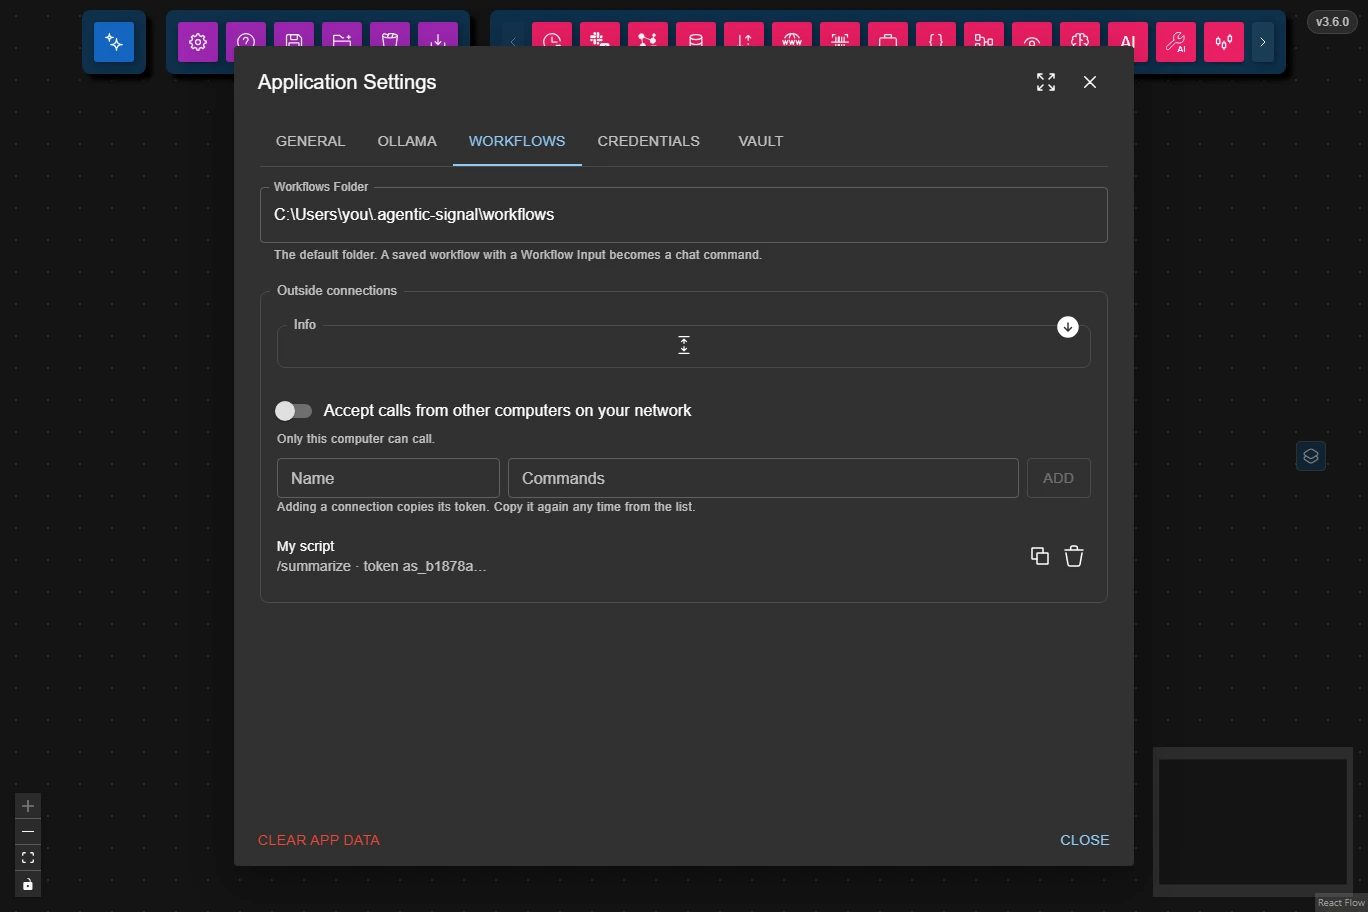
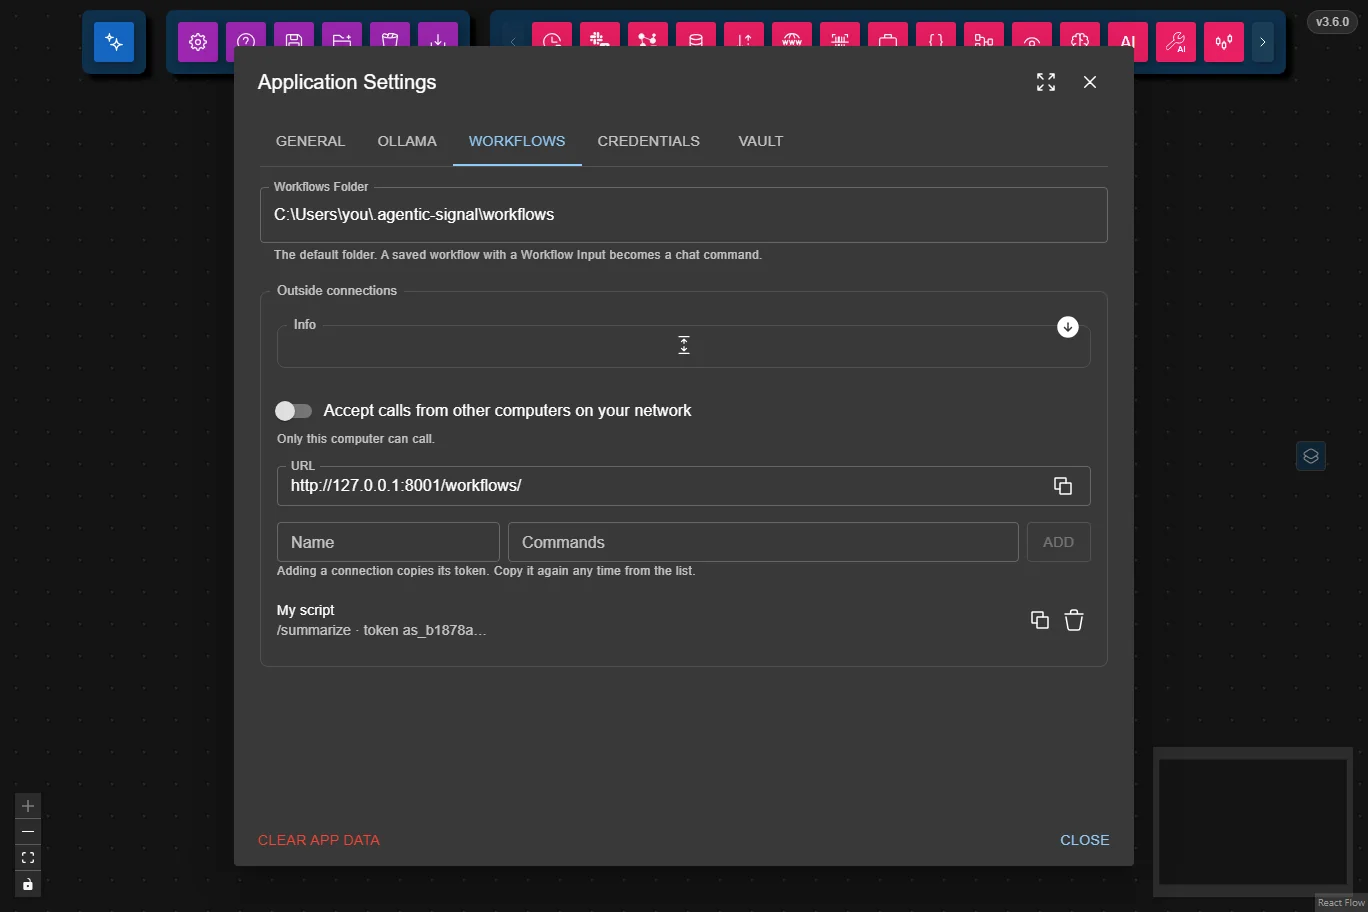
Settings → Workflows: the URL outside apps call, in a read-only field with a copy button, and with the network switch on, one more for each of this computer's network addresses (the switch's caption no longer lists them); the switch's state moved into a hook the switch and the fields share; the docs

Changed region(s): [[0.1842, 0.4912, 0.5219, 0.7061], [0.7368, 0.5833, 0.7982, 0.614], [0.7675, 0.5219, 0.7982, 0.5526]]

diff --git a/client/src/components/Dock/components/ActionsDock/components/Settings/components/OutsideConnections.tsx b/client/src/components/Dock/components/ActionsDock/components/Settings/components/OutsideConnections.tsx
@@ -15,10 +15,12 @@ import {Copy, Trash} from "iconoir-react";
 import {useSnackbar} from "notistack";
 import {FieldsetGroup} from "../../../../../../FieldsetGroup";
 import {useCommandConnections} from "../../../../../../../hooks/useCommandConnections";
+import {useCommandsNetworkAccess} from "../../../../../../../hooks/useCommandsNetworkAccess";
 import {CommandConnection} from "../../../../../../../services/commandConnections";
 import {fetchCommandsEndpoint} from "../../../../../../../services/outsideCommandsService";
 import {copyText} from "../../../../../../../utils/clipboard";
 import {AddConnectionForm} from "./AddConnectionForm";
+import {CommandsUrls} from "./CommandsUrls";
 import {NetworkAccessSwitch} from "./NetworkAccessSwitch";
 import {errorMessage} from "@shared/utils";
 
@@ -39,7 +41,10 @@ function describeConnection ({commands}: CommandConnection, token: string | unde
 export function OutsideConnections () {
     const {enqueueSnackbar} = useSnackbar();
     const {connections, tokens, getToken, addConnection, removeConnection} = useCommandConnections();
-    const [endpoint, setEndpoint] = useState(ENDPOINT_PLACEHOLDER);
+    const {access, saving, setEnabled} = useCommandsNetworkAccess();
+    // Null until the backend answers: the Info text shows the usual URL meanwhile, but only the real one is offered to copy.
+    const [endpoint, setEndpoint] = useState<string | null>(null);
+    const shownEndpoint = endpoint ?? ENDPOINT_PLACEHOLDER;
 
     useEffect(() => {
         fetchCommandsEndpoint().then((url) => {
@@ -77,25 +82,27 @@ export function OutsideConnections () {
                     Apps outside Agentic Signal call workflows open in your layers whose Workflow Input has Run on.
                     <ul style={{margin: "8px 0 0", paddingLeft: "20px"}}>
                         <li>
-                            Run one: <code>POST {endpoint}&lt;command&gt;</code> with a Data Source as JSON, the same content a Data Source node holds:
+                            Run one: <code>POST {shownEndpoint}&lt;command&gt;</code> with a Data Source as JSON, the same content a Data Source node holds:
                             {" "}<code>{"{\"type\": \"markdown-and-files\", \"value\": {\"text\", \"files\": [{\"name\", \"base64\", \"mimeType\", \"isToolsPayload\"}]}}"}</code>
                             {" "}or <code>{"{\"type\": \"json\", \"value\": …}"}</code>. The answer is <code>{"{\"result\": …}"}</code>.
                         </li>
                         <li>
                             Long runs, for callers that can't wait on one request (a browser extension): add the header <code>Prefer: respond-async</code>.
-                            {" "}It answers at once with <code>{"{\"job\": …}"}</code>; then <code>GET {endpoint}jobs/&lt;job&gt;</code> answers
+                            {" "}It answers at once with <code>{"{\"job\": …}"}</code>; then <code>GET {shownEndpoint}jobs/&lt;job&gt;</code> answers
                             {" "}<code>{"{\"status\": \"running\"}"}</code> until the run ends, then what the one call would have.
-                            {" "}<code>DELETE {endpoint}jobs/&lt;job&gt;</code> cancels it; a job left unchecked for 2 minutes is cancelled.
+                            {" "}<code>DELETE {shownEndpoint}jobs/&lt;job&gt;</code> cancels it; a job left unchecked for 2 minutes is cancelled.
                         </li>
                         <li>
-                            List them: <code>GET {endpoint}</code> answers <code>{"{\"commands\": [{\"command\", \"description\"}]}"}</code>,
+                            List them: <code>GET {shownEndpoint}</code> answers <code>{"{\"commands\": [{\"command\", \"description\"}]}"}</code>,
                             the ones the token may call that a layer listens for now.
                         </li>
                         <li>Both need the header <code>Authorization: Bearer &lt;token&gt;</code>.</li>
                     </ul>
                 </Typography>
             </FieldsetGroup>
-            <NetworkAccessSwitch />
+            {/* Until the backend answers (or if it can't), there's nothing to switch, nor a URL to copy. */}
+            {access && <NetworkAccessSwitch access={access} saving={saving} onChange={setEnabled} />}
+            {endpoint && <CommandsUrls endpoint={endpoint} access={access} />}
             <AddConnectionForm onAdd={handleAdd} />
             <Typography variant="caption" color="text.secondary">
                 Adding a connection copies its token. Copy it again any time from the list.

diff --git a/client/src/components/Dock/components/ActionsDock/components/Settings/components/NetworkAccessSwitch.tsx b/client/src/components/Dock/components/ActionsDock/components/Settings/components/NetworkAccessSwitch.tsx
@@ -4,63 +4,35 @@
  *    See the LICENSE file in the project root for license details.     *
  ************************************************************************/
 
-import {useEffect, useState} from "react";
 import Box from "@mui/material/Box";
 import FormControlLabel from "@mui/material/FormControlLabel";
 import Switch from "@mui/material/Switch";
 import Typography from "@mui/material/Typography";
-import {useSnackbar} from "notistack";
-import {CommandsNetworkAccess, fetchCommandsNetworkAccess, setCommandsNetworkAccess} from "../../../../../../../services/outsideCommandsService";
-import {errorMessage} from "@shared/utils";
+import {CommandsNetworkAccess} from "../../../../../../../services/outsideCommandsService";
 
 
-/** The line under the switch: who can call, and on which address. */
-function describeAccess ({enabled, lockedBy, port, addresses}: CommandsNetworkAccess): string {
+/** The line under the switch: who can call. The URLs to call are in the fields below it. */
+function describeAccess ({enabled, lockedBy}: CommandsNetworkAccess): string {
     const lock = lockedBy ? ` ${lockedBy} decides this: the backend was started with it.` : "";
 
     if (!enabled) return `Only this computer can call.${lock}`;
 
-    const where = addresses.map(address => `http://${address}:${port}/workflows/<command>`).join(" or ");
-
-    return `${where ? `Other computers on your network call ${where}.` : "Other computers on your network can call."} `
-        + `Calls travel as plain HTTP, so keep this for networks you trust.${lock}`;
+    return `Other computers on your network can call too. Calls travel as plain HTTP, so keep this for networks you trust.${lock}`;
 }
 
+type NetworkAccessSwitchProps = {
+    access: CommandsNetworkAccess;
+    /** While the backend reopens the port, the switch waits. */
+    saving: boolean;
+    onChange: (enabled: boolean) => void;
+};
+
 /** Whether apps on other computers may call workflow commands: opens the commands port to the network. */
-export function NetworkAccessSwitch () {
-    const {enqueueSnackbar} = useSnackbar();
-    const [access, setAccess] = useState<CommandsNetworkAccess | null>(null);
-    const [saving, setSaving] = useState(false);
-
-    useEffect(() => {
-        let cancelled = false;
-
-        fetchCommandsNetworkAccess()
-            .then((answer) => {
-                if (!cancelled) setAccess(answer);
-            })
-            .catch(() => {});
-
-        return () => {
-            cancelled = true;
-        };
-    }, []);
-
-    // Until the backend answers (or if it can't), there's nothing to switch.
-    if (!access) return null;
-
-    const handleChange = (enabled: boolean) => {
-        setSaving(true);
-        void setCommandsNetworkAccess(enabled)
-            .then(setAccess)
-            .catch((error: unknown) => enqueueSnackbar(`Couldn't change it: ${errorMessage(error)}`, {variant: "error"}))
-            .finally(() => setSaving(false));
-    };
-
+export function NetworkAccessSwitch ({access, saving, onChange}: NetworkAccessSwitchProps) {
     return (
         <Box sx={{my: 1}}>
             <FormControlLabel
-                control={<Switch checked={access.enabled} disabled={saving || access.lockedBy !== null} onChange={(_event, checked) => handleChange(checked)} />}
+                control={<Switch checked={access.enabled} disabled={saving || access.lockedBy !== null} onChange={(_event, checked) => onChange(checked)} />}
                 label="Accept calls from other computers on your network"
             />
             <Typography variant="caption" color="text.secondary" component="p">{describeAccess(access)}</Typography>

diff --git a/client/src/components/Dock/components/ActionsDock/components/Settings/components/CommandsUrls.tsx b/client/src/components/Dock/components/ActionsDock/components/Settings/components/CommandsUrls.tsx
@@ -1,0 +1,86 @@
+/************************************************************************
+ *    Copyright (C) 2026 Code Forge Temple                              *
+ *    This file is part of agentic-signal project                       *
+ *    See the LICENSE file in the project root for license details.     *
+ ************************************************************************/
+
+import Box from "@mui/material/Box";
+import IconButton from "@mui/material/IconButton";
+import InputAdornment from "@mui/material/InputAdornment";
+import TextField from "@mui/material/TextField";
+import Tooltip from "@mui/material/Tooltip";
+import {Copy} from "iconoir-react";
+import {useSnackbar} from "notistack";
+import {CommandsNetworkAccess} from "../../../../../../../services/outsideCommandsService";
+import {copyText} from "../../../../../../../utils/clipboard";
+
+
+type CommandsUrl = {label: string; url: string};
+
+/**
+ * The URLs outside apps call: this computer's, and while the port is open to the network, one per address other
+ * computers reach this one on (an address the backend was started with is this computer's URL already).
+ */
+function commandsUrls (endpoint: string, access: CommandsNetworkAccess | null): CommandsUrl[] {
+    if (!access?.enabled) return [{label: "URL", url: endpoint}];
+
+    const networkUrls = access.addresses
+        .map(address => `http://${address}:${access.port}/workflows/`)
+        .filter(url => url !== endpoint);
+
+    return [
+        {label: "URL for this computer", url: endpoint},
+        ...networkUrls.map(url => ({label: "URL for other computers", url})),
+    ];
+}
+
+/* A read-only field with the URL, so it can be read and selected too, and a button that copies it. */
+function CopyableUrl ({label, url}: CommandsUrl) {
+    const {enqueueSnackbar} = useSnackbar();
+
+    const handleCopy = () => {
+        copyText(url)
+            .then(() => enqueueSnackbar("URL copied.", {variant: "success"}))
+            .catch(() => enqueueSnackbar("Couldn't copy the URL.", {variant: "error"}));
+    };
+
+    return (
+        <TextField
+            size="small"
+            fullWidth
+            label={label}
+            value={url}
+            slotProps={{
+                htmlInput: {title: url},
+                input: {
+                    readOnly: true,
+                    endAdornment: (
+                        <InputAdornment position="end">
+                            <Tooltip title="Copy URL">
+                                <IconButton size="small" edge="end" aria-label={`Copy ${url}`} onClick={handleCopy}>
+                                    <Copy style={{fontSize: 16}} />
+                                </IconButton>
+                            </Tooltip>
+                        </InputAdornment>
+                    ),
+                },
+            }}
+        />
+    );
+}
+
+type CommandsUrlsProps = {
+    /** Where apps on this computer call, from the backend. */
+    endpoint: string;
+    /** Adds the network's URLs while the port is open to it. */
+    access: CommandsNetworkAccess | null;
+};
+
+/** Where outside apps send their calls, each URL with a button to copy it. A command's name goes after it. */
+export function CommandsUrls ({endpoint, access}: CommandsUrlsProps) {
+    return (
+        <Box sx={{display: "flex", flexDirection: "column", gap: 1.5, mt: 1, mb: 2}}>
+            {commandsUrls(endpoint, access).map(({label, url}) => <CopyableUrl key={url} label={label} url={url} />)}
+        </Box>
+    );
+}

diff --git a/client/src/hooks/useCommandsNetworkAccess.ts b/client/src/hooks/useCommandsNetworkAccess.ts
@@ -1,0 +1,45 @@
+/************************************************************************
+ *    Copyright (C) 2026 Code Forge Temple                              *
+ *    This file is part of agentic-signal project                       *
+ *    See the LICENSE file in the project root for license details.     *
+ ************************************************************************/
+
+import {useEffect, useState} from "react";
+import {useSnackbar} from "notistack";
+import {CommandsNetworkAccess, fetchCommandsNetworkAccess, setCommandsNetworkAccess} from "../services/outsideCommandsService";
+import {errorMessage} from "@shared/utils";
+
+
+/**
+ * Whether other computers may call workflow commands, and on which addresses; `access` is null until the backend
+ * answers (or if it can't). `setEnabled` opens or closes the port, and says so if the backend refuses.
+ */
+export function useCommandsNetworkAccess () {
+    const {enqueueSnackbar} = useSnackbar();
+    const [access, setAccess] = useState<CommandsNetworkAccess | null>(null);
+    const [saving, setSaving] = useState(false);
+
+    useEffect(() => {
+        let cancelled = false;
+
+        fetchCommandsNetworkAccess()
+            .then((answer) => {
+                if (!cancelled) setAccess(answer);
+            })
+            .catch(() => {});
+
+        return () => {
+            cancelled = true;
+        };
+    }, []);
+
+    const setEnabled = (enabled: boolean) => {
+        setSaving(true);
+        void setCommandsNetworkAccess(enabled)
+            .then(setAccess)
+            .catch((error: unknown) => enqueueSnackbar(`Couldn't change it: ${errorMessage(error)}`, {variant: "error"}))
+            .finally(() => setSaving(false));
+    };
+
+    return {access, saving, setEnabled};
+}

diff --git a/docs/docs/getting-started/outside-apps.md b/docs/docs/getting-started/outside-apps.md
@@ -16,7 +16,7 @@ Scripts, browser extensions and other programs can run your workflows over HTTP,
 
 ## The API
 
-Every request goes to port `8001` and sends the token:
+Every request goes to port `8001`, at the **URL** shown in the same Settings section (the button beside it copies it), and sends the token:
 
 ```
 Authorization: Bearer <token>
@@ -90,7 +90,7 @@ A failed call answers `{"error": {"code": "…", "message": "…"}}`. When a nod
 
 ## Calls from Other Computers
 
-By default only this computer can call. To accept calls from other computers on your network, turn on **Accept calls from other computers on your network** in the same Settings section. It shows the address to use. Calls travel as plain HTTP, so keep this for networks you trust.
+By default only this computer can call. To accept calls from other computers on your network, turn on **Accept calls from other computers on your network** in the same Settings section. A **URL for other computers** then appears for each of this computer's network addresses, with a button to copy it. Calls travel as plain HTTP, so keep this for networks you trust.
 
 - **Docker:** the container accepts calls from outside by default. Publish port `8001` along with the others: `docker run -p 8080:8080 -p 8000:8000 -p 8001:8001 agentic-signal`.
 - **Started with `AGENTIC_SIGNAL_COMMANDS_HOST` or `AGENTIC_SIGNAL_HOST`:** that address decides, and the switch is locked.
